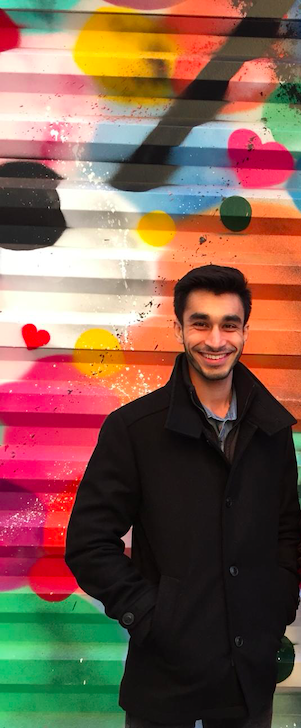
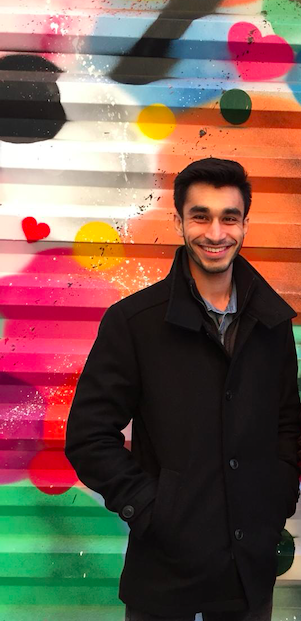
home image
local path added

diff --git a/_sass/devlopr.scss b/_sass/devlopr.scss
@@ -498,10 +498,7 @@ header {
 /* jumbotron */
 .jumbotron {
     background-color: var(--main-background-color) !important;
-    background-image: url('https://wallpaperaccess.com/full/796835.jpg');
-    /* https://ivan-ivanov.info/img/background.jpg
-    https://structr.com/new-website-2020/content-img/warp-background-2.jpg
-    https://www.imtglobalinc.com/wp-content/uploads/2020/07/AdobeStock_164909094-scaled.jpeg */
+    background-image: url(../img/home.png);
     background-attachment: fixed;
     background-size: cover;
     background-position: center;

diff --git a/_layouts/projects.html b/_layouts/projects.html
@@ -22,7 +22,7 @@ layout: default
           <h6 class="experience-info">{{ project.project_info}}</h6>
           <p class="experience-desc">{{ project.project_description }}</p>
           <p>
-            <a class="project-link" href="{{project.project_url}}">{{ project.alias_url}}</a>
+            <a class="project-link" href="{{project.project_url}}">{{project.alias_url}}</a>
           </p>
         </div>
       </div>

diff --git a/_layouts/about-me.html b/_layouts/about-me.html
@@ -84,8 +84,7 @@ layout: default
           <div><img src="{{ site.url }}{{ site.baseurl }}/assets/img/hobby6.png" class="hobby_img"/></div>
         </div>
         <div><img src="{{ site.url }}{{ site.baseurl }}/assets/img/hobby4.png" class="hobby_img"/></div>
-      </div>
-        
+      </div>        
     </div>
   </div>
 </div>
